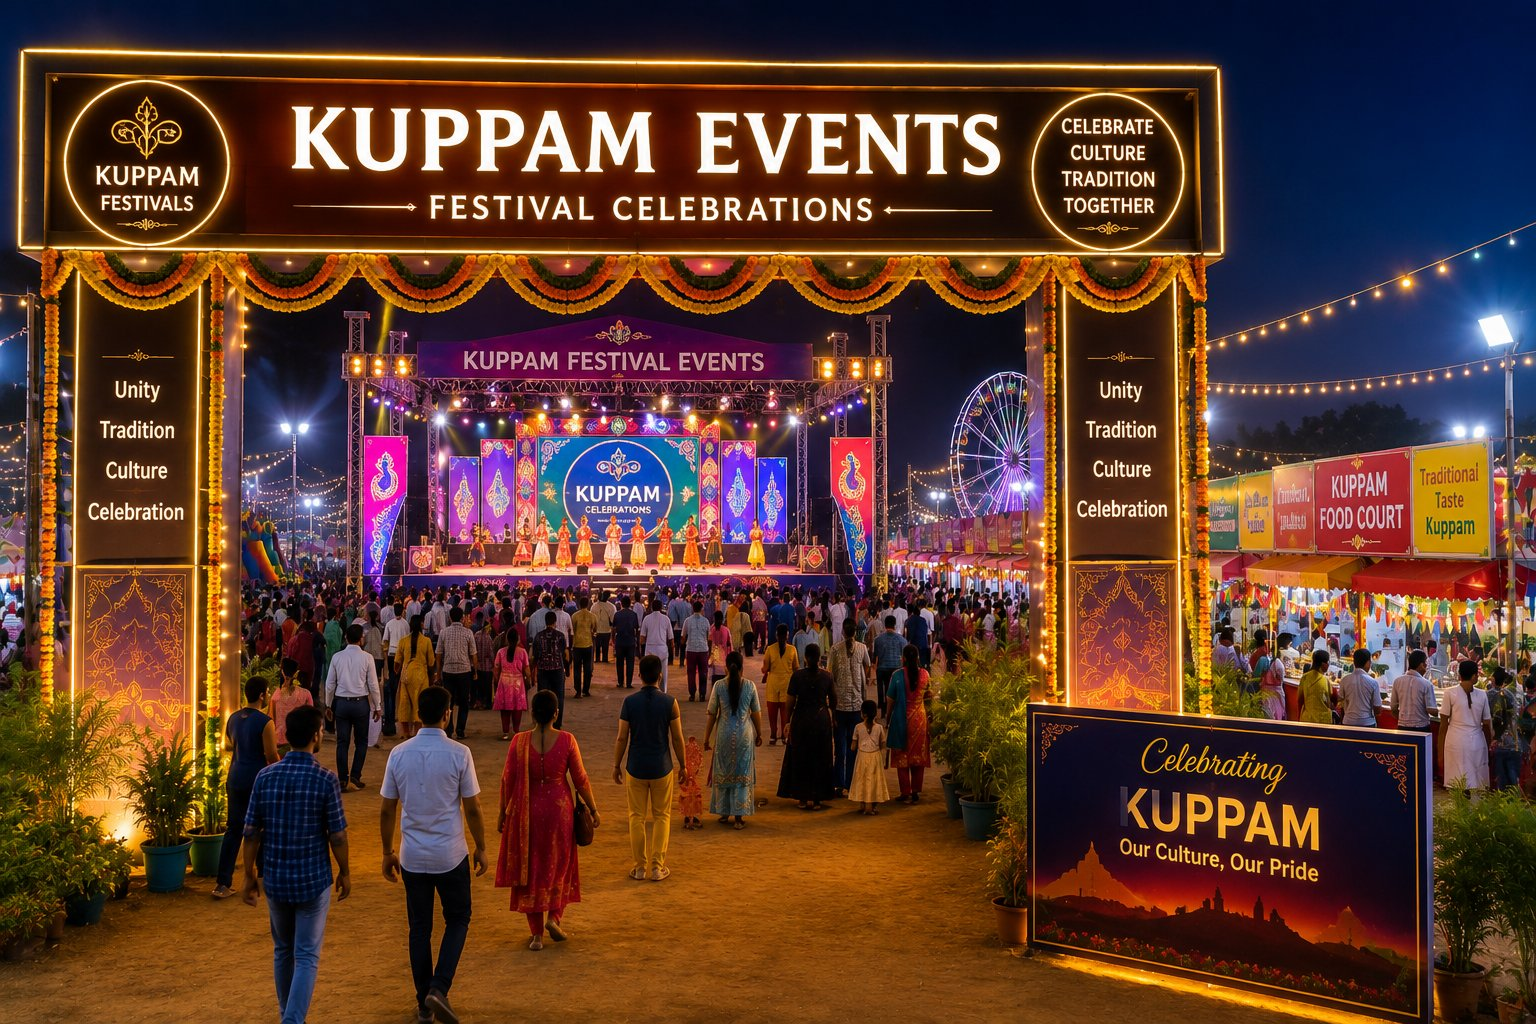
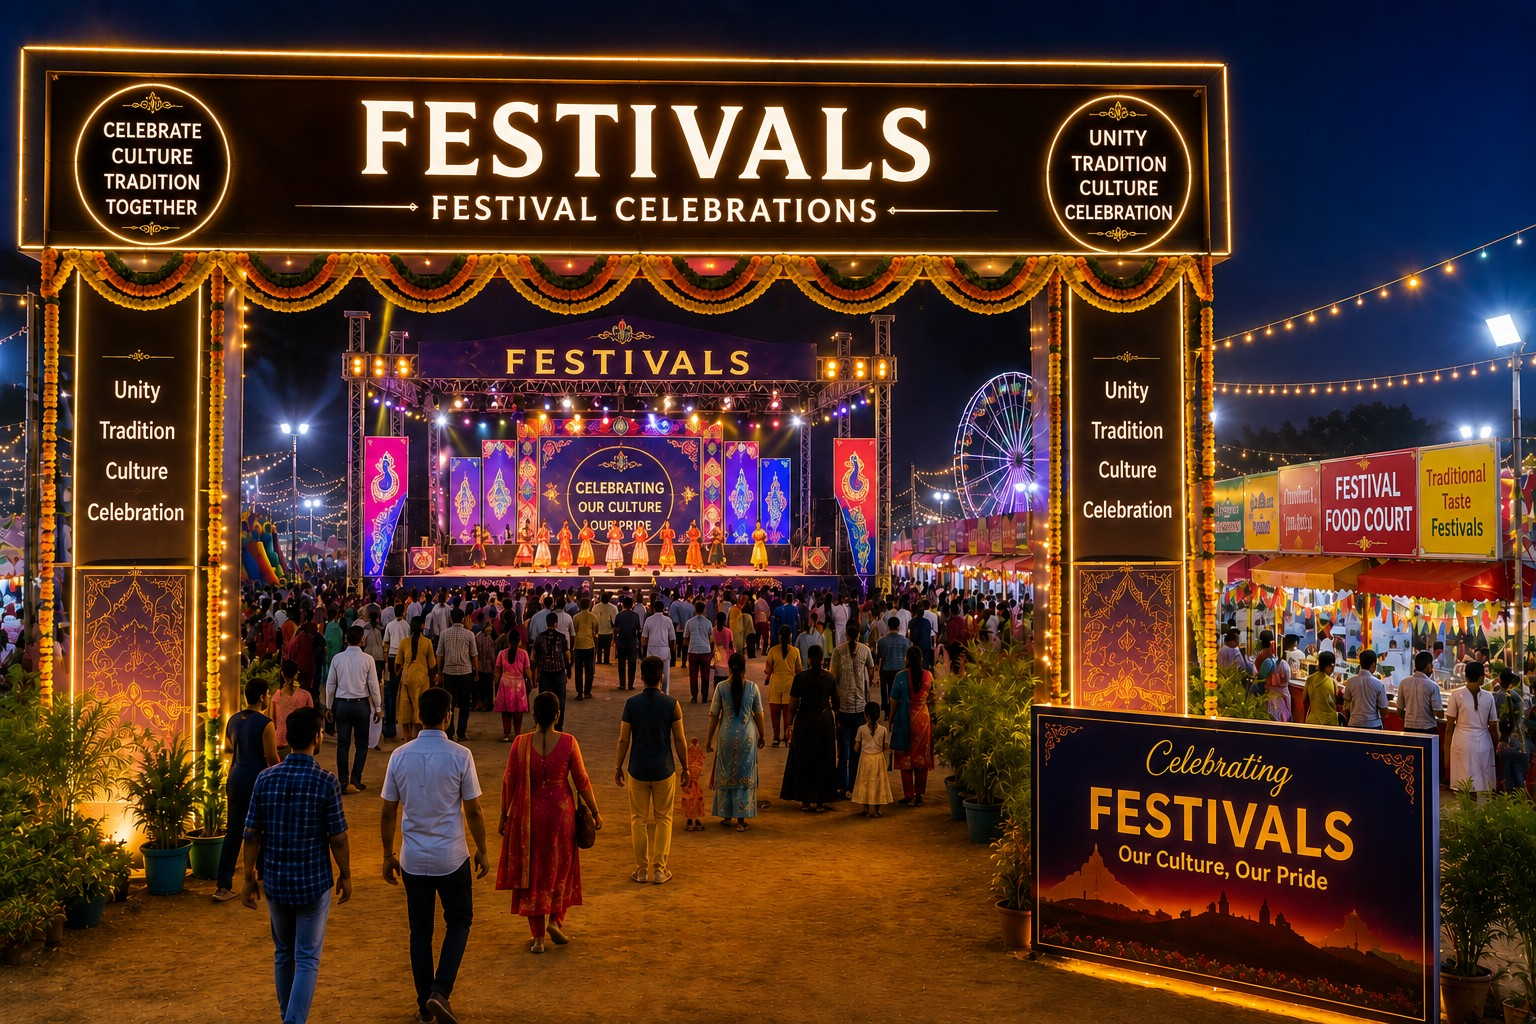
Added craftlanee

diff --git a/templates/dashboard/user_detail.html b/templates/dashboard/user_detail.html
@@ -1,0 +1,152 @@
+{% extends 'dashboard/base_dashboard.html' %}
+
+{% block title %}{{ page_title }}{% endblock %}
+
+{% block dashboard_content %}
+<div class="d-flex justify-content-between align-items-center flex-wrap gap-2 mb-4">
+    <div>
+        <a href="{% url 'core:dashboard_users' %}" class="text-decoration-none small text-muted d-inline-flex align-items-center gap-1 mb-2">
+            <i class="bi bi-arrow-left"></i> Back to Manage Users
+        </a>
+        <h3 class="fw-bold mb-0" data-aos="fade-up">{{ viewed_profile.full_name|default:viewed_profile.user.username }}</h3>
+    </div>
+</div>
+
+<div class="card hk-data-card mb-4">
+    <div class="card-body d-flex flex-wrap align-items-center gap-4">
+        <img src="{{ viewed_profile.display_photo }}" alt="{{ viewed_profile.full_name }}" class="rounded-circle" style="width:84px; height:84px; object-fit:cover;">
+        <div class="flex-grow-1">
+            <div class="d-flex flex-wrap align-items-center gap-2 mb-1">
+                <span class="fw-bold fs-5">{{ viewed_profile.full_name|default:viewed_profile.user.username }}</span>
+                <span class="badge bg-primary-subtle text-primary">{{ viewed_profile.get_role_display }}</span>
+                {% if viewed_profile.is_blocked %}<span class="hk-status-pill hk-status-rejected">Blocked</span>{% endif %}
+                {% if viewed_profile.is_suspended %}<span class="hk-status-pill hk-status-pending">Suspended</span>{% endif %}
+                {% if not viewed_profile.is_blocked and not viewed_profile.is_suspended %}<span class="hk-status-pill hk-status-active">Active</span>{% endif %}
+            </div>
+            <div class="text-muted small mb-1"><i class="bi bi-envelope"></i> {{ viewed_profile.user.email }}{% if viewed_profile.phone_number %} &middot; <i class="bi bi-telephone"></i> {{ viewed_profile.phone_number }}{% endif %}</div>
+            <div class="text-muted small">
+                <i class="bi bi-geo-alt"></i> {{ viewed_profile.city|default:"—" }}{% if viewed_profile.state %}, {{ viewed_profile.state }}{% endif %}{% if viewed_profile.pincode %} - {{ viewed_profile.pincode }}{% endif %}
+                &middot; <i class="bi bi-calendar3"></i> Joined {{ viewed_profile.created_at|date:"d M Y" }}
+                &middot; <i class="bi bi-clock-history"></i> Last active {{ viewed_profile.last_active_at|date:"d M Y, H:i"|default:"never" }}
+            </div>
+            {% if viewed_profile.address %}<div class="text-muted small mt-1"><i class="bi bi-house"></i> {{ viewed_profile.address }}</div>{% endif %}
+        </div>
+        <div class="d-flex gap-1">
+            {% if viewed_profile.role != 'super_admin' %}
+            <form method="post" action="{% url 'core:dashboard_user_toggle_block' viewed_profile.user_id %}">
+                {% csrf_token %}
+                <input type="hidden" name="next" value="{{ request.get_full_path }}">
+                <button type="submit" class="btn btn-outline-danger btn-sm">
+                    <i class="bi {% if viewed_profile.is_blocked %}bi-shield-check{% else %}bi-shield-slash{% endif %}"></i>
+                    {% if viewed_profile.is_blocked %}Unblock{% else %}Block{% endif %}
+                </button>
+            </form>
+            {% if viewed_profile.role == 'admin' %}
+            <form method="post" action="{% url 'core:dashboard_user_toggle_suspend' viewed_profile.user_id %}">
+                {% csrf_token %}
+                <input type="hidden" name="next" value="{{ request.get_full_path }}">
+                <button type="submit" class="btn btn-outline-warning btn-sm">
+                    <i class="bi {% if viewed_profile.is_suspended %}bi-play-circle{% else %}bi-pause-circle{% endif %}"></i>
+                    {% if viewed_profile.is_suspended %}Unsuspend{% else %}Suspend{% endif %}
+                </button>
+            </form>
+            {% endif %}
+            {% endif %}
+        </div>
+    </div>
+</div>
+
+<div class="hk-dash-section-title" data-aos="fade-up">Listings</div>
+<div class="hk-grid-auto-sm mb-4" data-aos="fade-up">
+    <div class="hk-stat-card"><div class="hk-stat-icon hk-stat-icon--indigo"><i class="bi bi-card-list"></i></div><div><div class="hk-stat-value">{{ stats.total }}</div><div class="hk-stat-label">Total</div></div></div>
+    <div class="hk-stat-card"><div class="hk-stat-icon" style="background:var(--bs-warning-bg-subtle); color:var(--bs-warning);"><i class="bi bi-hourglass-split"></i></div><div><div class="hk-stat-value">{{ stats.pending }}</div><div class="hk-stat-label">Pending</div></div></div>
+    <div class="hk-stat-card"><div class="hk-stat-icon hk-stat-icon--emerald"><i class="bi bi-check-circle"></i></div><div><div class="hk-stat-value">{{ stats.approved }}</div><div class="hk-stat-label">Approved</div></div></div>
+    <div class="hk-stat-card"><div class="hk-stat-icon" style="background:var(--bs-danger-bg-subtle); color:var(--bs-danger);"><i class="bi bi-x-circle"></i></div><div><div class="hk-stat-value">{{ stats.rejected }}</div><div class="hk-stat-label">Rejected</div></div></div>
+    <div class="hk-stat-card"><div class="hk-stat-icon hk-stat-icon--gold"><i class="bi bi-eye"></i></div><div><div class="hk-stat-value">{{ stats.total_views }}</div><div class="hk-stat-label">Total Views</div></div></div>
+    <div class="hk-stat-card"><div class="hk-stat-icon" style="background:var(--hk-violet-bg); color:#7C3AED;"><i class="bi bi-heart"></i></div><div><div class="hk-stat-value">{{ stats.total_likes }}</div><div class="hk-stat-label">Total Likes</div></div></div>
+</div>
+
+{% if permitted_categories is not None %}
+<div class="hk-dash-section-title" data-aos="fade-up">Permitted Categories</div>
+<div class="card hk-data-card mb-4">
+    <div class="card-body d-flex flex-wrap gap-2">
+        {% for category in permitted_categories %}
+        <span class="badge bg-primary-subtle text-primary"><i class="bi {{ category.icon }}"></i> {{ category.label }}</span>
+        {% empty %}
+        <p class="text-muted mb-0">No categories granted yet.</p>
+        {% endfor %}
+    </div>
+</div>
+{% endif %}
+
+{% if items %}
+<div class="card hk-data-card mb-4">
+    <div class="table-responsive">
+        <table class="table table-hover align-middle mb-0">
+            <thead class="table-light">
+                <tr>
+                    <th>Listing</th>
+                    <th>Type</th>
+                    <th>Status</th>
+                    <th>Views</th>
+                    <th>Likes</th>
+                    <th>Created</th>
+                    <th class="text-end">Action</th>
+                </tr>
+            </thead>
+            <tbody>
+                {% for item in items %}
+                {% with obj=item.obj %}
+                <tr>
+                    <td>{{ obj }}</td>
+                    <td><span class="hk-type-pill hk-type-{{ item.model_key }}">{{ item.model_key }}</span></td>
+                    <td><span class="hk-status-pill hk-status-{{ obj.status }}">{{ obj.get_status_display }}</span></td>
+                    <td>{{ obj.view_count }}</td>
+                    <td>{{ obj.like_count }}</td>
+                    <td class="small text-muted">{{ obj.created_at|date:"d M Y" }}</td>
+                    <td class="text-end">
+                        <a href="{% url 'core:dashboard_post_detail' item.model_key obj.pk %}" class="hk-row-action-btn" title="View listing"><i class="bi bi-eye"></i></a>
+                    </td>
+                </tr>
+                {% endwith %}
+                {% endfor %}
+            </tbody>
+        </table>
+    </div>
+</div>
+{% else %}
+<div class="alert alert-info text-center py-5 hk-empty-state mb-4">
+    <i class="bi bi-card-list display-4 d-block mb-3"></i>
+    <p class="fw-bold mb-1">No listings yet</p>
+    <p class="text-muted mb-0">This user hasn't published anything.</p>
+</div>
+{% endif %}
+
+<div class="hk-dash-section-title" data-aos="fade-up">Recent Login Activity</div>
+<div class="card hk-data-card">
+    <div class="table-responsive">
+        <table class="table align-middle mb-0">
+            <thead class="table-light">
+                <tr>
+                    <th>Event</th>
+                    <th>IP Address</th>
+                    <th>Device</th>
+                    <th>When</th>
+                </tr>
+            </thead>
+            <tbody>
+                {% for entry in login_history %}
+                <tr>
+                    <td><span class="badge {% if entry.event_type == 'login' %}bg-success-subtle text-success{% else %}bg-secondary-subtle text-secondary{% endif %}">{{ entry.get_event_type_display }}</span></td>
+                    <td class="text-muted small">{{ entry.ip_address|default:"—" }}</td>
+                    <td class="text-muted small">{{ entry.user_agent|default:"—"|truncatechars:60 }}</td>
+                    <td class="text-muted small">{{ entry.created_at|date:"d M Y, H:i" }}</td>
+                </tr>
+                {% empty %}
+                <tr><td colspan="4" class="text-center text-muted py-4">No login activity recorded.</td></tr>
+                {% endfor %}
+            </tbody>
+        </table>
+    </div>
+</div>
+{% endblock %}

diff --git a/templates/dashboard/users.html b/templates/dashboard/users.html
@@ -84,8 +84,11 @@
                             {% if not profile.is_blocked and not profile.is_suspended %}<span class="hk-status-pill hk-status-active">Active</span>{% endif %}
                         </td>
                         <td class="text-end">
-                            {% if profile.role != 'super_admin' %}
                             <div class="d-flex justify-content-end gap-1">
+                                <a href="{% url 'core:dashboard_user_detail' profile.user_id %}" class="hk-row-action-btn" title="View profile">
+                                    <i class="bi bi-eye"></i>
+                                </a>
+                                {% if profile.role != 'super_admin' %}
                                 <button type="submit" formaction="{% url 'core:dashboard_user_toggle_block' profile.user_id %}" class="hk-row-action-btn hk-row-action-danger" title="{% if profile.is_blocked %}Unblock{% else %}Block{% endif %}">
                                     <i class="bi {% if profile.is_blocked %}bi-shield-check{% else %}bi-shield-slash{% endif %}"></i>
                                 </button>
@@ -94,8 +97,8 @@
                                     <i class="bi {% if profile.is_suspended %}bi-play-circle{% else %}bi-pause-circle{% endif %}"></i>
                                 </button>
                                 {% endif %}
+                                {% endif %}
                             </div>
-                            {% endif %}
                         </td>
                     </tr>
                     {% empty %}

diff --git a/core/views.py b/core/views.py
@@ -1974,6 +1974,47 @@ def dashboard_users(request):
 
 
 @super_admin_required
+def dashboard_user_detail(request, user_id):
+    """
+    Full read-only profile view for one account — Super Admin clicks a row
+    in Manage Users to see everything the flat table can't show inline
+    (contact/address details, granted category permissions, every listing
+    they own, recent login history). Reuses the same per-owner listing scan
+    _admin_dashboard already does for a Content Provider's own workspace,
+    just pointed at the viewed user instead of request.user.
+    """
+    profile = get_object_or_404(Profile.objects.select_related('user'), user_id=user_id)
+    target_user = profile.user
+
+    own_items = []
+    for key, model_cls in LISTING_MODELS.items():
+        qs = model_cls.objects.filter(owner=target_user).select_related('listing_category')
+        for obj in qs:
+            own_items.append({'model_key': key, 'obj': obj})
+    own_items.sort(key=lambda item: item['obj'].created_at, reverse=True)
+
+    stats = {
+        'total': len(own_items),
+        'pending': sum(1 for i in own_items if i['obj'].status == ListingStatus.PENDING),
+        'approved': sum(1 for i in own_items if i['obj'].status == ListingStatus.APPROVED),
+        'rejected': sum(1 for i in own_items if i['obj'].status == ListingStatus.REJECTED),
+        'total_views': sum(i['obj'].view_count for i in own_items),
+        'total_likes': sum(i['obj'].like_count for i in own_items),
+    }
+
+    context = {
+        'page_title': f'{profile.full_name or target_user.username} - OneTownCity',
+        'viewed_profile': profile,
+        'stats': stats,
+        'items': own_items,
+        'permitted_categories': Category.objects.filter(is_active=True, admin_permissions__admin=target_user) if profile.role == UserRole.ADMIN else None,
+        'login_history': LoginHistory.objects.filter(user=target_user)[:10],
+        'active_nav': 'users',
+    }
+    return render(request, 'dashboard/user_detail.html', context)
+
+
+@super_admin_required
 @require_POST
 def dashboard_user_toggle_block(request, user_id):
     profile = get_object_or_404(Profile, user_id=user_id)
@@ -2389,7 +2430,10 @@ def _filtered_post_items(request):
     """
     Shared query-param filtering/sorting for the Posts dashboard, reused by
     dashboard_posts (paginated HTML table) and the Excel/PDF export views so
-    an export always matches whatever the Super Admin is currently viewing.
+    an export always matches whatever the viewer is currently allowed to see.
+
+    Super Admins see every listing; Admins (Content Providers) are scoped to
+    only the listings they own.
     """
     q = request.GET.get('q', '').strip()
     category_id = request.GET.get('category', '').strip()
@@ -2397,12 +2441,15 @@ def _filtered_post_items(request):
     owner_id = request.GET.get('owner', '').strip()
     status_filter = request.GET.get('status', '').strip()
     sort = request.GET.get('sort', 'newest')
+    is_super_admin = request.profile.is_super_admin
 
     items = []
     for key, model_cls in LISTING_MODELS.items():
         if model_filter and model_filter != key:
             continue
         qs = model_cls.objects.select_related('owner', 'listing_category')
+        if not is_super_admin:
+            qs = qs.filter(owner=request.user)
         if status_filter:
             qs = qs.filter(status=status_filter)
         if category_id:
@@ -2436,10 +2483,13 @@ def dashboard_posts(request):
 
     counts = {'total': 0, 'pending': 0, 'approved': 0, 'rejected': 0}
     for model_cls in LISTING_MODELS.values():
-        counts['total'] += model_cls.objects.count()
-        counts['pending'] += model_cls.objects.filter(status=ListingStatus.PENDING).count()
-        counts['approved'] += model_cls.objects.filter(status=ListingStatus.APPROVED).count()
-        counts['rejected'] += model_cls.objects.filter(status=ListingStatus.REJECTED).count()
+        base_qs = model_cls.objects.all()
+        if not request.profile.is_super_admin:
+            base_qs = base_qs.filter(owner=request.user)
+        counts['total'] += base_qs.count()
+        counts['pending'] += base_qs.filter(status=ListingStatus.PENDING).count()
+        counts['approved'] += base_qs.filter(status=ListingStatus.APPROVED).count()
+        counts['rejected'] += base_qs.filter(status=ListingStatus.REJECTED).count()
 
     context = {
         'page_title': 'Posts - OneTownCity',
@@ -2460,12 +2510,22 @@ def dashboard_posts(request):
     return render(request, 'dashboard/posts.html', context)
 
 
+def _ensure_post_owner_access(request, obj):
+    """
+    IDOR guard: Admins (Content Providers) may only view/act on listings
+    they own, even via a direct URL — Super Admins are unrestricted.
+    """
+    if not request.profile.is_super_admin and obj.owner_id != request.user.id:
+        raise Http404('Unknown listing type')
+
+
 @admin_or_super_required
 def dashboard_post_detail(request, model_key, pk):
     model_cls = LISTING_MODELS.get(model_key)
     if model_cls is None:
         raise Http404('Unknown listing type')
     obj = get_object_or_404(model_cls.objects.select_related('owner', 'listing_category', 'reviewed_by'), pk=pk)
+    _ensure_post_owner_access(request, obj)
     ct = ContentType.objects.get_for_model(obj)
     gallery_images = PostImage.objects.filter(content_type=ct, object_id=obj.pk).select_related('uploaded_by')
     gallery_videos = PostVideo.objects.filter(content_type=ct, object_id=obj.pk).select_related('uploaded_by')
@@ -2489,6 +2549,7 @@ def dashboard_post_toggle_active(request, model_key, pk):
     if model_cls is None:
         raise Http404('Unknown listing type')
     obj = get_object_or_404(model_cls, pk=pk)
+    _ensure_post_owner_access(request, obj)
     obj.is_active = not obj.is_active
     obj.save(update_fields=['is_active'])
     messages.success(request, f'{obj} is now {"active" if obj.is_active else "inactive"}.')
@@ -2502,6 +2563,7 @@ def dashboard_post_toggle_featured(request, model_key, pk):
     if model_cls is None:
         raise Http404('Unknown listing type')
     obj = get_object_or_404(model_cls, pk=pk)
+    _ensure_post_owner_access(request, obj)
     obj.is_featured = not obj.is_featured
     obj.save(update_fields=['is_featured'])
     messages.success(request, f'{obj} is now {"featured" if obj.is_featured else "not featured"}.')
@@ -2515,6 +2577,7 @@ def dashboard_post_add_images(request, model_key, pk):
     if model_cls is None:
         raise Http404('Unknown listing type')
     obj = get_object_or_404(model_cls, pk=pk)
+    _ensure_post_owner_access(request, obj)
     ct = ContentType.objects.get_for_model(obj)
 
     images, image_errors = _validate_gallery_files(
@@ -2556,6 +2619,8 @@ def dashboard_post_add_images(request, model_key, pk):
 def dashboard_post_delete_image(request, image_pk):
     image = get_object_or_404(PostImage, pk=image_pk)
     obj = image.content_object
+    if obj is not None:
+        _ensure_post_owner_access(request, obj)
     model_key = image.content_type.model
     image.delete()
     messages.success(request, 'Image deleted.')
@@ -2569,6 +2634,8 @@ def dashboard_post_delete_image(request, image_pk):
 def dashboard_post_delete_video(request, video_pk):
     video = get_object_or_404(PostVideo, pk=video_pk)
     obj = video.content_object
+    if obj is not None:
+        _ensure_post_owner_access(request, obj)
     model_key = video.content_type.model
     video.delete()
     messages.success(request, 'Video deleted.')
@@ -2584,6 +2651,7 @@ def dashboard_post_set_cover_image(request, image_pk):
     obj = image.content_object
     if obj is None:
         raise Http404('Post no longer exists')
+    _ensure_post_owner_access(request, obj)
     model_key = image.content_type.model
 
     if obj.image:
@@ -2629,6 +2697,8 @@ def dashboard_posts_bulk_action(request):
             continue
         obj = model_cls.objects.filter(pk=pk).first()
         if obj is None:
+            continue
+        if not request.profile.is_super_admin and obj.owner_id != request.user.id:
             continue
 
         if action in ('approve', 'reject'):

diff --git a/core/urls.py b/core/urls.py
@@ -96,6 +96,7 @@ urlpatterns = [
     path('dashboard/', views.dashboard, name='dashboard'),
     path('dashboard/profile/', views.dashboard_profile, name='dashboard_profile'),
     path('dashboard/users/', views.dashboard_users, name='dashboard_users'),
+    path('dashboard/users/<int:user_id>/', views.dashboard_user_detail, name='dashboard_user_detail'),
     path('dashboard/users/<int:user_id>/block/', views.dashboard_user_toggle_block, name='dashboard_user_toggle_block'),
     path('dashboard/users/<int:user_id>/suspend/', views.dashboard_user_toggle_suspend, name='dashboard_user_toggle_suspend'),
     path('dashboard/users/bulk-delete/', views.dashboard_users_bulk_delete, name='dashboard_users_bulk_delete'),
